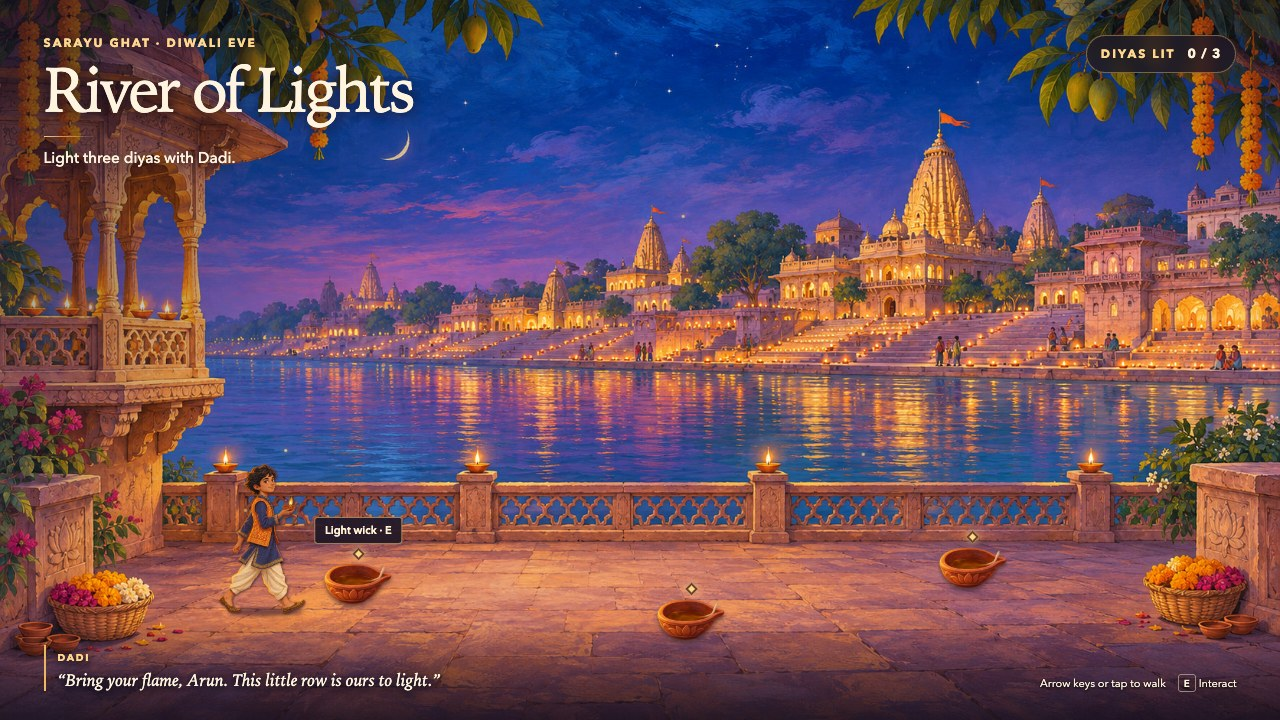
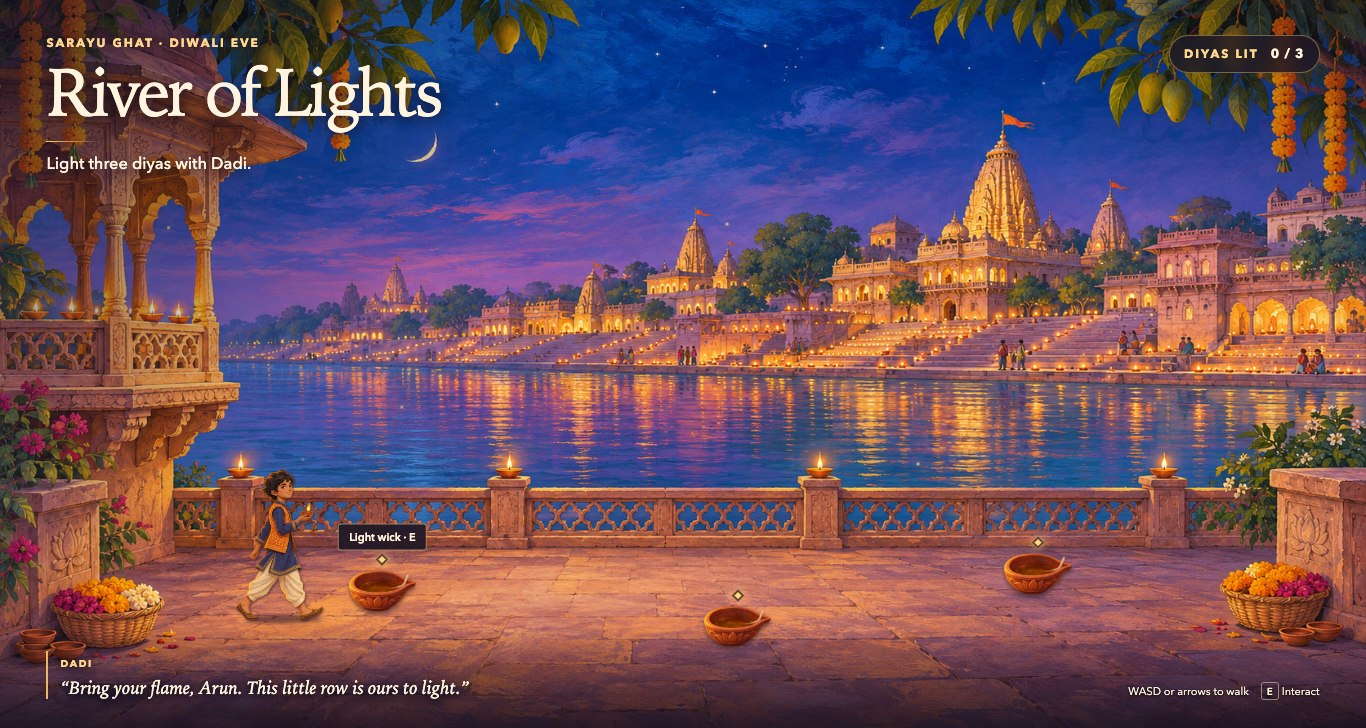
Escort Sita and Lakshmana home through the river game’s city gate

diff --git a/diwali-arcade/river/game.js b/diwali-arcade/river/game.js
@@ -2,26 +2,28 @@
   'use strict';
   const byId = id => document.getElementById(id);
   const world = byId('world'), actor = byId('actor'), sprite = actor.querySelector('img');
-  const targets = byId('targets'), ritual = byId('ritual'), page = byId('page');
+  const targets = byId('targets'), ritual = byId('ritual'), replay = byId('replay');
   const taper = byId('taper'), work = byId('work');
   const reduced = matchMedia('(prefers-reduced-motion: reduce)').matches;
   const clamp = (n, lo, hi) => Math.max(lo, Math.min(n, hi));
   const lamps = [
     {x:.28,y:.824}, {x:.54,y:.873}, {x:.76,y:.801}
   ];
-  const storyStops = [
-    {x:.39,y:.777,label:'Greet the neighbours',symbol:'✧'},
-    {x:.84,y:.677,label:'Enter Ayodhya',symbol:'✦'}
+  const family = [
+    {name:'Sita',image:'sita',start:{x:.37,y:.805}},
+    {name:'Lakshmana',image:'lakshmana',start:{x:.62,y:.715}}
   ];
+  const gate = {x:.874,y:.655};
+  const party = [];
   const sayings = [
     '“See how the oil climbs the cotton? That little wick will carry the flame.”',
     '“There! A second light. Can you see its sister on the water?”',
   ];
   const keys = new Set();
   let chapter = 'ghat', player = {x:.205,y:.854}, facing = 1;
-  let lit = new Set(), storyStep = 0, walkTo = null, pending = null, near = null, activeLamp = null;
+  let lit = new Set(), finished = false, walkTo = null, pending = null, near = null, activeLamp = null;
   let dragging = null, hold = false, heat = 0, stepTime = 0, lastTime = performance.now();
-  let continueAction = null;
+
 
   function quote(name, words) {
     byId('quote').querySelector('small').textContent = name;
@@ -35,66 +37,94 @@
   function stopMoving() { walkTo=null;pending=null;keys.clear(); }
   function refreshTargets() {
     targets.replaceChildren();
-    const spots = chapter==='ghat' ? lamps : storyStops;
-    spots.forEach((spot,index) => {
-      if(chapter==='story' && index!==storyStep) return;
-      const el=node('button',chapter==='ghat'?'spot':'spot storymark');
-      el.type='button';el.style.left=(spot.x*100)+'%';el.style.top=(spot.y*100)+'%';
-      el.dataset.index=index;
-      const label=chapter==='ghat'?'Light diya '+(index+1):spot.label;
-      el.setAttribute('aria-label',label);
-      if(chapter==='ghat'){
-        const img=node('img','');img.src='assets/diya.png';img.alt='';el.append(img);
-      } else el.append(spot.symbol);
-      el.append(node('i','spark'));
-      const tag=node('span','tag');tag.textContent=chapter==='ghat'?'Light wick · E':spot.label+' · E';el.append(tag);
-      if(chapter==='ghat' && lit.has(index)){
+    if(chapter==='story'){
+      if(party.length===family.length && !finished){
+        const gateButton=node('button','spot storymark');
+        gateButton.style.left=gate.x*100+'%';gateButton.style.top=gate.y*100+'%';
+        gateButton.textContent='✦';gateButton.setAttribute('aria-label','Walk to the city gate');
+        gateButton.onclick=()=>{walkTo={...gate};pending=null;};targets.append(gateButton);
+      }
+      byId('count').textContent=party.length+' / 2';
+      return;
+    }
+    lamps.forEach((spot,index)=>{
+      const el=node('button','spot');el.type='button';
+      el.style.left=spot.x*100+'%';el.style.top=spot.y*100+'%';el.dataset.index=index;
+      el.setAttribute('aria-label','Light diya '+(index+1));
+      const img=node('img','');img.src='assets/diya.png';img.alt='';el.append(img,node('i','spark'));
+      const tag=node('span','tag');tag.textContent='Light wick · E';el.append(tag);
+      if(lit.has(index)){
         el.classList.add('lit');el.append(node('i','fire'));el.disabled=true;el.setAttribute('aria-label','Lit diya '+(index+1));
       }
-      el.addEventListener('click',()=>choose(index));
+      el.onclick=()=>{
+        if(!ritual.hidden)return;
+        if(distance(player,spot)<.121){doAction(index);return;}
+        walkTo={x:spot.x-.035,y:spot.y+.018};pending=index;
+      };
       targets.append(el);
     });
-    byId('count').textContent=chapter==='ghat'?lit.size+' / 3':storyStep+' / 2';
+    byId('count').textContent=lit.size+' / 3';
   }
-  function choose(index) {
-    if(!ritual.hidden || !page.hidden) return;
-    const point=(chapter==='ghat'?lamps:storyStops)[index];
-    if(chapter==='ghat' && lit.has(index)) return;
-    if(distance(player,point)<.121){ doAction(index);return; }
-    walkTo={x:point.x-.035,y:point.y+.018};pending=index;
+  function doAction(index){
+    if(chapter!=='ghat'||lit.has(index))return;
+    stopMoving();activeLamp=index;heat=0;hold=false;dragging=null;
+    positionTaper(.19,.55);ritual.hidden=false;byId('light-key').focus({preventScroll:true});
   }
-  function offer(tag,title,copy,cta,action) {
-    stopMoving();
-    byId('page-tag').textContent=tag;byId('page-title').textContent=title;
-    byId('page-copy').textContent=copy;byId('continue').textContent=cta;
-    continueAction=action;page.hidden=false;byId('continue').focus({preventScroll:true});
-  }
-  function doAction(index) {
-    stopMoving();
-    if(chapter==='ghat'){
-      activeLamp=index;heat=0;hold=false;dragging=null;
-      positionTaper(.19,.55);ritual.hidden=false;byId('light-key').focus({preventScroll:true});return;
+  function placeFamily(){
+    for(const member of family){
+      member.pos={...member.start};member.facing=1;
+      member.el=node('button','companion');member.el.setAttribute('aria-label','Walk to '+member.name);
+      const art=node('img','');art.src='assets/'+member.image+'.png';art.alt=member.name;
+      const name=node('span','companion-name');name.textContent=member.name;
+      member.el.append(art,name);byId('companions').append(member.el);
+      member.el.onclick=()=>{walkTo={...member.pos};pending=null;};
     }
-    if(index===0){
-      offer('The welcome','A voice in the crowd','“Rama! Sita! Lakshmana!” Someone calls all three names. A child lifts her lamp so high that Rama stops to greet her.','Walk to the city gate',()=>{
-        storyStep=1;refreshTargets();byId('objective').textContent='Walk to the flower-hung gate.';
-        quote('Rama','“Every doorway holds a light for us.”');
-      });
-    }else{
-      storyStep=2;refreshTargets();
-      offer('Diwali · Ayodhya','Home, at last','Arun opens his eyes beside Dadi. In the Diwali story their family tells, the rows of diyas welcomed Rama, Sita and Lakshmana home after fourteen years in exile. Tonight his three little flames join that welcome.','Play again',restart);
+  }
+  function updateFamily(dt){
+    for(const member of family){
+      if(!party.includes(member) && distance(player,member.pos)<.098){
+        party.push(member);member.el.classList.add('following');member.el.disabled=true;
+        const other=family.find(person=>!party.includes(person));
+        byId('objective').textContent=other?'Walk to '+other.name+' on the avenue.':'Lead Sita and Lakshmana to the city gate.';
+        quote(member.name,member.name==='Sita'?'“I can see the gate. Look at all the lamps!”':'“Together again, brother. Let’s go home.”');
+        refreshTargets();
+      }
+    }
+    let leader=player;
+    for(const member of party){
+      const dx=leader.x-member.pos.x,dy=leader.y-member.pos.y;
+      const length=Math.hypot(dx,dy),gap=finished?.032:.054;
+      if(length>gap){
+        const amount=Math.min(dt*.29,length-gap)/length;
+        member.pos.x+=dx*amount;member.pos.y+=dy*amount;
+        if(Math.abs(dx)>.008)member.facing=Math.sign(dx);
+      }
+      leader=member.pos;
+    }
+    for(const member of family){
+      const sprite=member.el.querySelector('img');
+      member.el.style.left=member.pos.x*100+'%';member.el.style.top=member.pos.y*100+'%';
+      member.el.style.height=(.18+(member.pos.y-.7)*.43)*100+'cqh';
+      member.el.style.zIndex=Math.round(member.pos.y*100);
+      sprite.style.transform='scaleX('+member.facing+')';
+    }
+    if(!finished && party.length===2 && distance(player,gate)<.068 && party.every(m=>distance(m.pos,gate)<.226)){
+      finished=true;refreshTargets();replay.hidden=false;
+      byId('title').textContent='Home, at last';byId('objective').textContent='Rama, Sita and Lakshmana have reached Ayodhya.';
+      quote('Dadi','“Our family lights diyas to remember that welcome home.”');
     }
   }
   function beginStory() {
     chapter='story';byId('game').classList.add('story');world.setAttribute('aria-label','Walkable avenue in ancient Ayodhya');
     player={x:.135,y:.841};facing=1;sprite.src='assets/rama.png';actor.setAttribute('aria-label','Rama');
     byId('location').textContent="Dadi’s Ramayana · Ayodhya";
-    byId('title').textContent='The Homecoming';byId('objective').textContent='Walk as Rama. Greet the neighbours.';
-    byId('meter-title').textContent='Homeward';quote('Dadi','“Imagine it, Arun. You are Rama, and the whole city has come out to see you.”');
+    byId('title').textContent='The Homecoming';byId('objective').textContent='Gather Sita and Lakshmana. Lead them to the gate.';
+    byId('meter-title').textContent='With Rama';quote('Dadi','“After fourteen years away, Ayodhya lit the way home. Walk in Rama’s footsteps, Arun.”');
+    placeFamily();updateFamily(0);
     refreshTargets();render(0,false);
   }
   function restart() {
-    chapter='ghat';player={x:.205,y:.854};facing=1;storyStep=0;lit.clear();stopMoving();
+    chapter='ghat';player={x:.205,y:.854};facing=1;finished=false;party.length=0;byId('companions').replaceChildren();replay.hidden=true;lit.clear();stopMoving();
     byId('game').classList.remove('story');world.setAttribute('aria-label','Walkable riverside terrace');
     actor.setAttribute('aria-label','Arun');sprite.src='assets/arun.png';
     byId('location').textContent='Sarayu Ghat · Diwali eve';byId('title').textContent='River of Lights';
@@ -108,13 +138,12 @@
   function lightLamp() {
     if(activeLamp===null)return;
     lit.add(activeLamp);dismissRitual();refreshTargets();
-    if(lit.size===3){
-      offer('Dadi’s story','Why a row of lights?','“When I was little,” Dadi says, “my mother told me about a city that waited fourteen years for three people to come home. Close your eyes. Let’s walk there.”','Step into the story',beginStory);
-    }else quote('Dadi',sayings[lit.size-1]);
+    if(lit.size===3)beginStory();
+    else quote('Dadi',sayings[lit.size-1]);
   }
   function positionTaper(x,y){taper.style.left=(x*100)+'%';taper.style.top=(y*100)+'%';}
   byId('cancel').onclick=dismissRitual;
-  byId('continue').onclick=()=>{if(page.hidden)return;page.hidden=true;continueAction?.();};
+  replay.onclick=restart;
   const lightButton=byId('light-key');
   lightButton.onpointerdown=e=>{e.preventDefault();lightButton.setPointerCapture(e.pointerId);hold=true;};
   lightButton.onpointerup=lightButton.onpointercancel=()=>{hold=false;};
@@ -129,7 +158,7 @@
   };
   taper.onpointerup=taper.onpointercancel=()=>{dragging=null;if(!ritual.hidden)positionTaper(.19,.55);};
   world.onpointerdown=e=>{
-    if(e.target.closest('button') || !ritual.hidden || !page.hidden)return;
+    if(e.target.closest('button') || !ritual.hidden)return;
     const r=world.getBoundingClientRect(),x=clamp((e.clientX-r.left)/r.width,.09,.916);
     const [low,high]=bounds(x),y=clamp((e.clientY-r.top)/r.height,low,high);walkTo={x,y};pending=null;
     const ring=node('i','walk-point');ring.style.left=(100*x)+'%';ring.style.top=(100*y)+'%';
@@ -139,7 +168,6 @@
   window.addEventListener('keydown',e=>{
     if(e.metaKey||e.ctrlKey||e.altKey)return;
     const key=e.key.toLowerCase();
-    if(!page.hidden){if(!e.repeat && (key==='e'||key===' ')){e.preventDefault();byId('continue').click();}return;}
     if(!ritual.hidden){
       if(key==='escape'){dismissRitual();e.preventDefault();}
       if(key==='e'||key===' '){e.preventDefault();if(!e.repeat)hold=true;}
@@ -159,7 +187,8 @@
     sprite.style.transform='translateX(-50%) translateY('+(-Math.abs(stride)*2.5)+'%) scaleX('+facing+') rotate('+(stride*1.8)+'deg)';
     actor.style.zIndex=Math.round(player.y*100);
     near=null;let nearest=.121;
-    const spots=chapter==='ghat'?lamps:storyStops;
+    if(chapter==='story'){updateFamily(dt);return;}
+    const spots=lamps;
     for(const el of targets.children){
       const idx=+el.dataset.index,spot=spots[idx];el.style.zIndex=Math.round(spot.y*100);
       const d=distance(player,spot);
@@ -168,13 +197,14 @@
     for(const el of targets.children)el.classList.toggle('near',+el.dataset.index===near);
   }
   function tick(t){
-    const dt=Math.min((t-lastTime)/1000,.045);lastTime=t;
+    const elapsed=(t-lastTime)/1000;lastTime=t;
+    const dt=Math.min(elapsed,.045);
     if(!ritual.hidden && dragging===null){
-      heat=clamp(heat+(hold?1:-2)*dt*1.18,0,1);
+      heat=clamp(heat+(hold?1:-2)*elapsed*1.18,0,1);
       positionTaper(.19+.68*heat,.55-.31*heat-Math.sin(heat*Math.PI)*.12);
       if(heat>=1)lightLamp();
     }
-    if(page.hidden && ritual.hidden){
+    if(ritual.hidden){
       let dx=Number(keys.has('arrowright')||keys.has('d'))-Number(keys.has('arrowleft')||keys.has('a'));
       let dy=Number(keys.has('arrowdown')||keys.has('s'))-Number(keys.has('arrowup')||keys.has('w'));
       let moving=false;

diff --git a/diwali-arcade/river/index.html b/diwali-arcade/river/index.html
@@ -5,6 +5,7 @@
   <div id="world" role="group" aria-label="Walkable riverside terrace">
     <div id="scenery"></div><div id="glints" aria-hidden="true"></div>
     <div id="targets"></div>
+    <div id="companions"></div>
     <div id="actor" aria-label="Arun"><i></i><img src="assets/arun.png" alt=""></div>
     <div id="dust" aria-hidden="true"></div>
   </div>
@@ -12,12 +13,12 @@
   <header><p id="location">Sarayu Ghat · Diwali eve</p><h1 id="title">River of Lights</h1><div class="rule" aria-hidden="true"></div><p id="objective">Light three diyas with Dadi.</p></header>
   <div id="meter" aria-live="polite"><span id="meter-title">Diyas lit</span><b id="count">0 / 3</b></div>
   <div id="quote" aria-live="polite"><small>Dadi</small><p>“Bring your flame, Arun. This little row is ours to light.”</p></div>
-  <div id="controls"><span>Arrow keys or tap to walk</span><span><kbd>E</kbd> Interact</span></div>
+  <div id="controls"><span>WASD or arrows to walk</span><span><kbd>E</kbd> Interact</span></div>
   <section id="ritual" class="overlay" hidden aria-label="Lighting a diya" role="dialog" aria-modal="true">
     <div class="ritual-panel"><button id="cancel" class="close" aria-label="Return to the ghat">×</button><p class="eyebrow">At the ghat</p><h2>Light the wick</h2><p>Bring the flame to the cotton wick.</p>
     <div id="work"><img src="assets/diya.png" alt="A clay lamp filled with oil"><div id="wick" aria-hidden="true"></div><button id="taper" aria-label="Drag the burning taper to the wick"><i class="fire"></i></button></div>
     <button id="light-key" class="gold-button">Hold to light <kbd>E</kbd></button>
     </div>
   </section>
-  <section id="page" class="overlay" hidden aria-labelledby="page-title" role="dialog" aria-modal="true"><div class="page-panel"><div class="flourish" aria-hidden="true">✧</div><p class="eyebrow" id="page-tag"></p><h2 id="page-title"></h2><p id="page-copy"></p><button id="continue" class="gold-button"></button></div></section>
+  <button id="replay" class="gold-button" hidden>Play again</button>
 </main></body></html>

diff --git a/diwali-arcade/river/style.css b/diwali-arcade/river/style.css
@@ -64,3 +64,9 @@ h2{margin:8px 0 6px;font-size:clamp(31px,5vh,50px);letter-spacing:-.04em;line-he
 @media(max-aspect-ratio:1/1){#world{inset:20% 0 auto;height:50%;}header{top:4%;left:6%}#meter{right:6%;top:4%;padding:6px 10px}#meter-title{font-size:8px}h1{font-size:clamp(29px,7.5vw,50px)}.shade{background:linear-gradient(to bottom,#141329 17%,transparent 23%,transparent 67%,#191528 72%)}#quote{left:6%;right:6%;max-width:none;bottom:16%}#quote p{font-size:19px}#controls{left:6%;right:auto;bottom:6%}.spot .tag{font-size:9px;padding:3px 5px}#actor{height:18cqh}}
 @media(max-height:490px) and (min-aspect-ratio:1/1){header{top:13px}h1{font-size:32px}.rule{margin:5px 0}#quote{bottom:2%;max-width:61%}#controls{font-size:9px}#quote p{font-size:13px}.page-panel,.ritual-panel{padding:15px 20px}#page-copy{margin:9px 0 13px;font-size:16px}}
 @media(prefers-reduced-motion:reduce){.fire,.glint{animation:none}.walk-point{display:none}}
+.companion{position:absolute;transform:translate(-50%,-100%);aspect-ratio:.57;border:0;background:none;padding:0;cursor:pointer}
+.companion img{display:block;height:100%;width:100%;object-fit:contain;filter:drop-shadow(1px 2px 1px #291c3660)}
+.companion-name{position:absolute;top:0;left:50%;transform:translate(-50%,-125%);font-size:11px;letter-spacing:.05em;color:#fff5d7;text-shadow:0 1px 2px #1f1622;background:#2b1c29d9;border:1px solid #d6ae77;padding:3px 9px;border-radius:3px}
+.companion.following{pointer-events:none;opacity:1}
+.companion.following .companion-name{display:none}
+#replay{position:absolute;top:clamp(165px,24vh,250px);left:3.4%;z-index:4}
